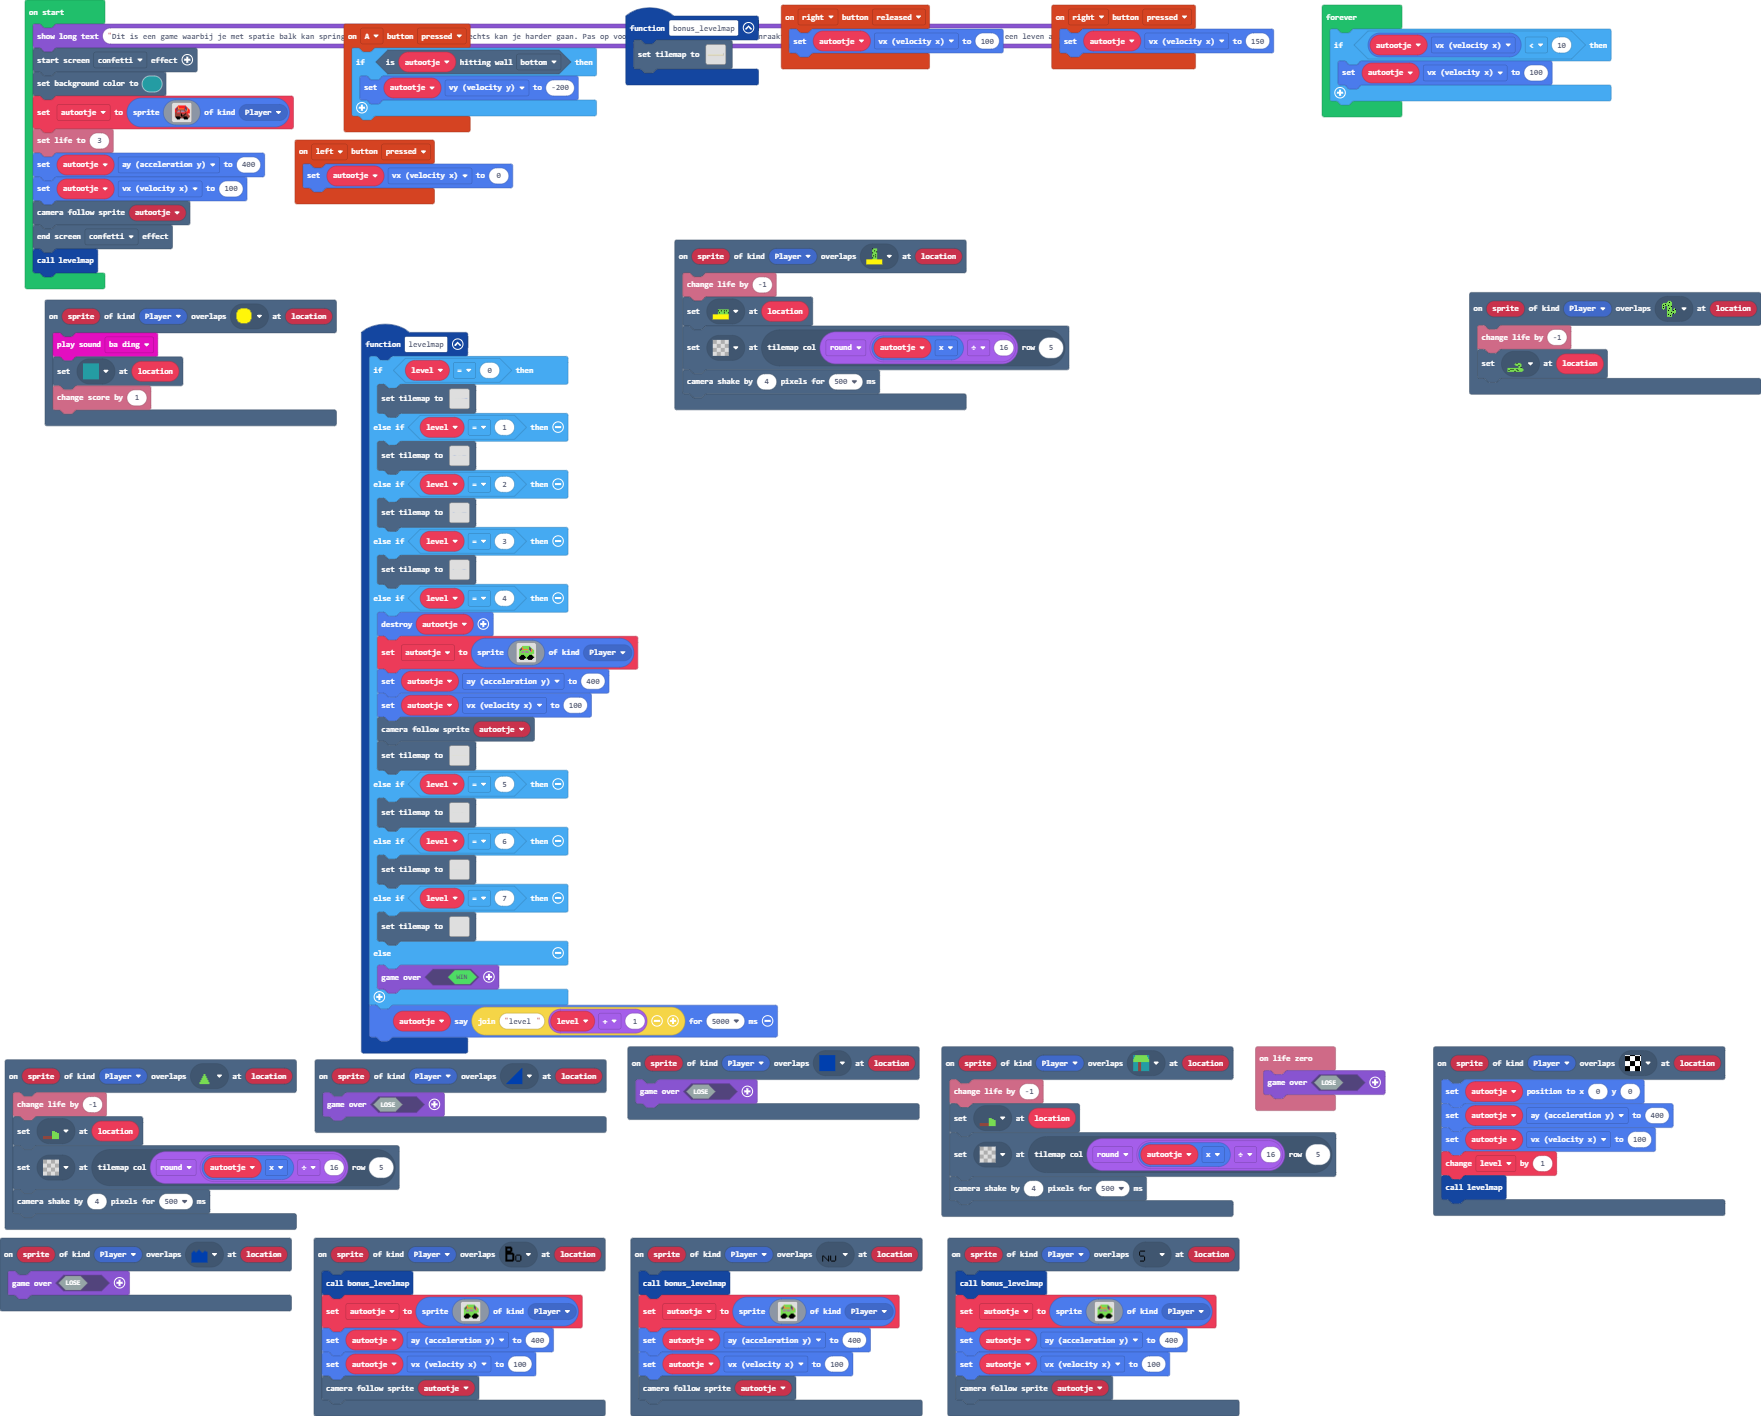
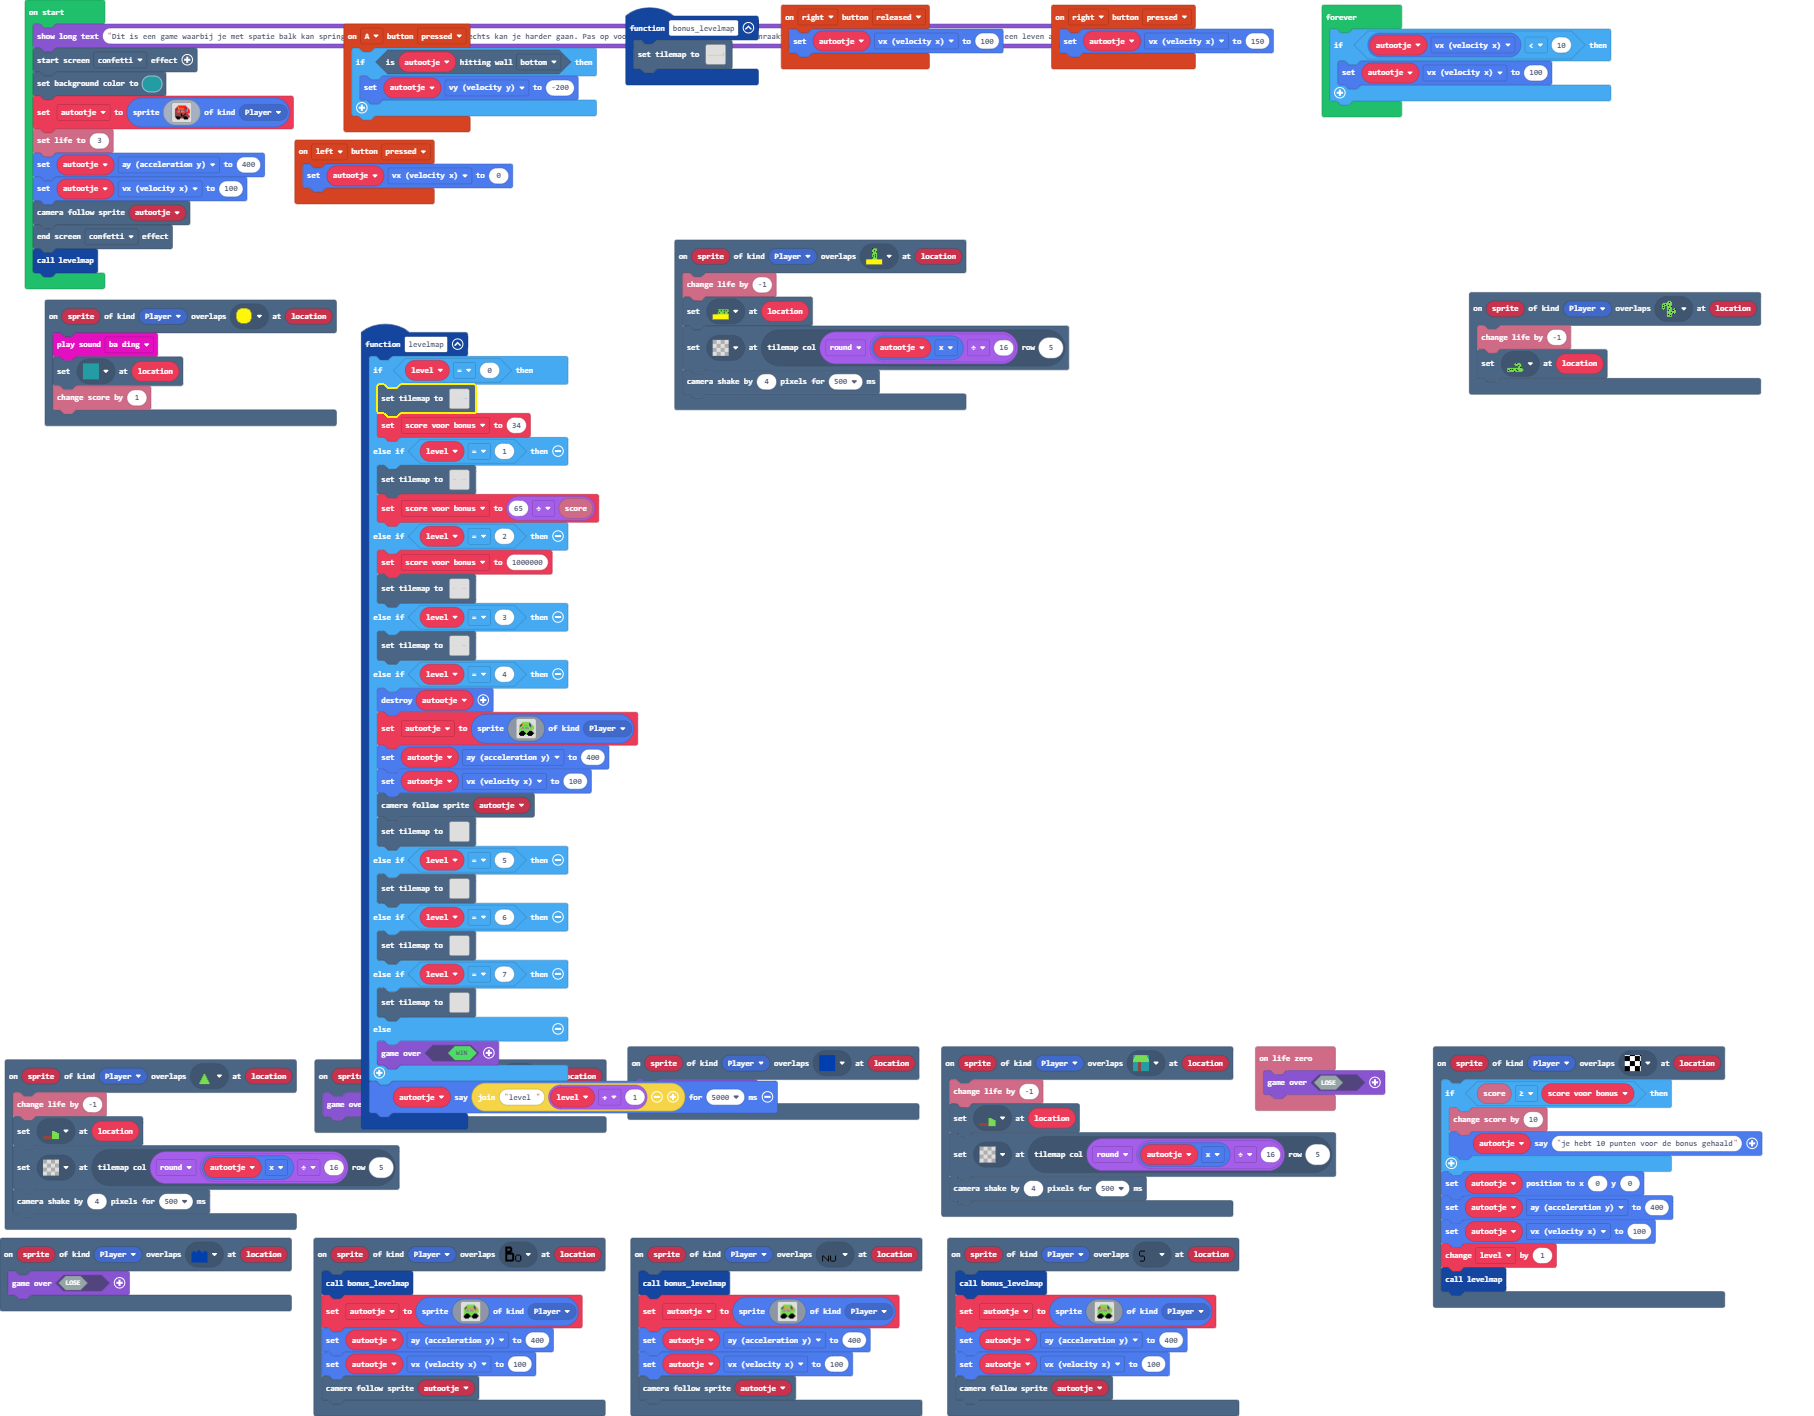
Spray weg bij de munten. tekst toe gevoegd Bonus punten toegevoegd

diff --git a/tilemap.g.ts b/tilemap.g.ts
@@ -201,7 +201,7 @@ namespace myTiles {
 ..................................................
 22222222222222222222222222222222222222222222222222
 `, [myTiles.transparency16,myTiles.tile4,sprites.vehicle.roadHorizontal,myTiles.tile5], TileScale.Sixteen)
[2 lines of base64/hex data omitted]
 ..........................................................................................................................................................................................................................................................
 ..........................................................................................................................................................................................................................................................
 ..............................................................................................................................................................................................................................2222222.2222222.2.2.2.2.2.2.
@@ -209,7 +209,7 @@ namespace myTiles {
 ..............................................................................................................................................................................................................222222......................................
 ........................................................222.........2222.........222........2222...............22222..222.......................................222222222.22222222.222222222.222222.22222222..............................................
 ........................................................................................................222222...........2222.............................................................................................................................
-2222222222...2222222...222222.2.22222..22222222.222222.......22222.........2222.......2222.......222222.......................222.2.2.2.2.2.2.2.2.2.22222222..............................................................................................
+22222222222222222222...222222.2.22222..22222222.222222.......22222.........2222.......2222.......222222.......................222.2.2.2.2.2.2.2.2.2.22222222..............................................................................................
 `, [myTiles.transparency16,sprites.vehicle.roadHorizontal,myTiles.tile3,myTiles.tile4,myTiles.tile6,myTiles.tile8,myTiles.tile5], TileScale.Sixteen)
[1 lines of base64/hex data omitted]
 ..........................................................................................................................................................................................................................................................

diff --git a/main.ts b/main.ts
@@ -7,9 +7,12 @@ scene.onOverlapTile(SpriteKind.Player, myTiles.tile3, function (sprite, location
 function levelmap () {
     if (level == 0) {
         tiles.setTilemap(tilemap`level_8`)
+        score_voor_bonus = 34
     } else if (level == 1) {
         tiles.setTilemap(tilemap`level_9`)
+        score_voor_bonus = 65 / info.score()
     } else if (level == 2) {
+        score_voor_bonus = 1000000
         tiles.setTilemap(tilemap`level_10`)
     } else if (level == 3) {
         tiles.setTilemap(tilemap`level_11`)
@@ -168,6 +171,10 @@ info.onLifeZero(function () {
     game.over(false)
 })
 scene.onOverlapTile(SpriteKind.Player, myTiles.tile5, function (sprite, location) {
+    if (info.score() >= score_voor_bonus) {
+        info.changeScoreBy(10)
+        autootje.say("je hebt 10 punten voor de bonus gehaald")
+    }
     autootje.setPosition(0, 0)
     autootje.ay = 400
     autootje.vx = 100
@@ -180,6 +187,7 @@ scene.onOverlapTile(SpriteKind.Player, myTiles.tile32, function (sprite, locatio
     tiles.setTileAt(tiles.getTileLocation(Math.round(autootje.x / 16), 5), myTiles.transparency16)
     scene.cameraShake(4, 500)
 })
+let score_voor_bonus = 0
 let level = 0
 let autootje: Sprite = null
 game.showLongText("Dit is een game waarbij je met spatie balk kan springen en met het pijltje naar rechts kan je harder gaan. Pas op voor het water want als je dat aanraakt dan ben je af. Bij de cactussen en bomen gaat er een leven af. Succes", DialogLayout.Full)
